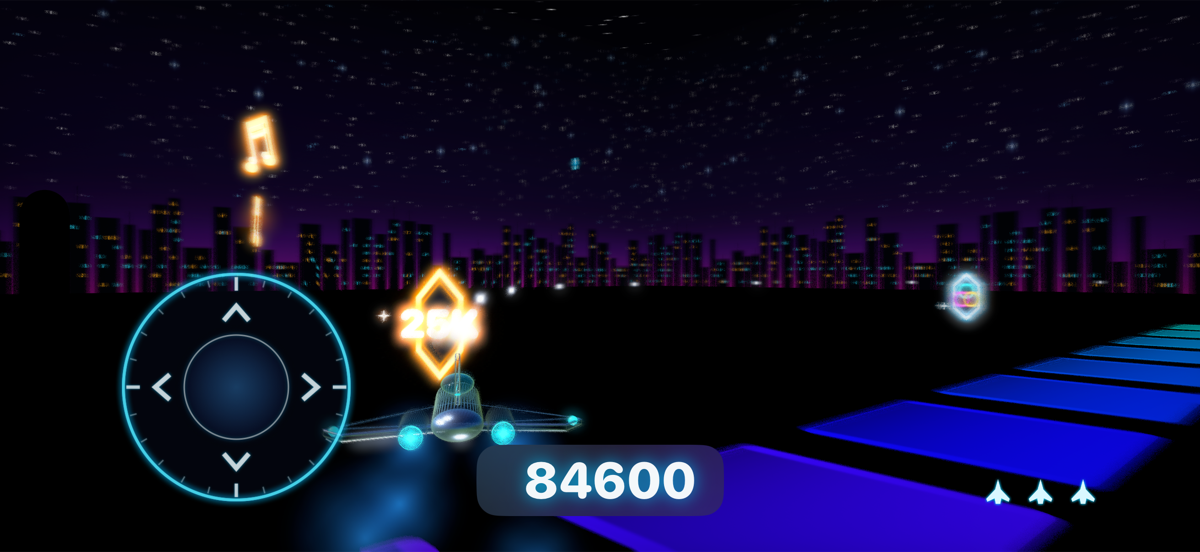
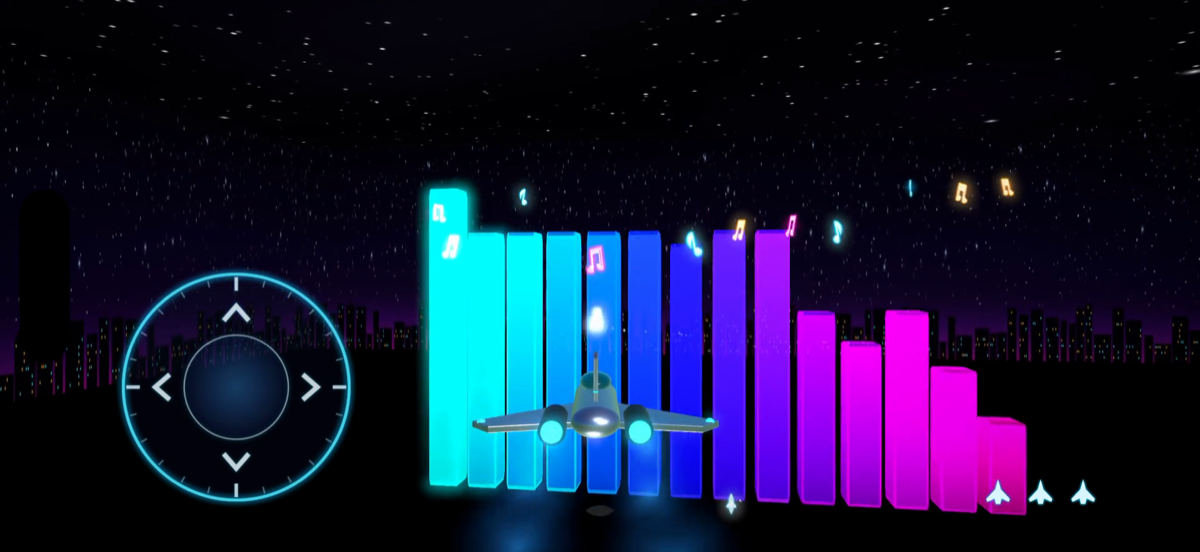
Demo autopilot flies in 3D: dogfights chords, dives for pickups
The autopilot now chases the nearest live chord through the full
altitude band, reserves a slice of every 24 s for a pickup run near the
floor, and patrols a figure-eight when the arena is quiet. Gameplay
screenshot refreshed from the new capture.

diff --git a/mevsmusic/GameRenderer.swift b/mevsmusic/GameRenderer.swift
@@ -47,6 +47,7 @@ final class GameRenderer: NSObject, SCNSceneRendererDelegate {
     // the DEMO environment variable (Xcode scheme or simctl) — never in normal use.
     private let demoMode = ProcessInfo.processInfo.environment["DEMO"] != nil
     private var demoFireTimer: Float = 0
+    private var demoClock: Float = 0
 
     // Input written from the main thread, consumed on the render thread.
     private let inputLock = NSLock()
@@ -435,27 +436,48 @@ final class GameRenderer: NSObject, SCNSceneRendererDelegate {
         bonuses.forEach { $0.update(deltaTime: deltaTime) }
     }
 
-    // Demo autopilot: chase the nearest live pickup (or cruise through the bar
-    // rack), firing bursts so captures catch bullets, explosions and bonus grabs.
+    // Demo autopilot: dogfight the chords in 3D, dive for a floor pickup every
+    // so often, and fly a lazy figure-eight tour when the arena is quiet.
     private func demoSteer(_ deltaTime: Float) {
-        var target = simd_float3(0, -95, -20)
-        var bestDistance = Float.greatestFiniteMagnitude
+        demoClock += deltaTime
+        let shipPosition = ship.node.simdPosition
+
+        func nearest(_ candidates: [simd_float3]) -> simd_float3? {
+            candidates.min { simd_length($0 - shipPosition) < simd_length($1 - shipPosition) }
+        }
+        var bonusTargets: [simd_float3] = []
         for bonus in bonuses {
             for i in bonus.nodes.indices where bonus.isAlive[i] {
-                let distance = simd_length(bonus.positions[i] - ship.node.simdPosition)
-                if distance < bestDistance {
-                    bestDistance = distance
-                    target = bonus.positions[i]
-                }
+                bonusTargets.append(bonus.positions[i])
             }
         }
-        let to = target - ship.node.simdPosition
+        var chordTargets: [simd_float3] = []
+        for chords in chordGroups {
+            for i in chords.nodes.indices where chords.states[i] == .alive && chords.isAlive[i] {
+                chordTargets.append(chords.positions[i])
+            }
+        }
+
+        // Ten seconds of every twenty-four are reserved for pickup runs.
+        let wantsBonus = demoClock.truncatingRemainder(dividingBy: 24) >= 14
+        let target: simd_float3
+        if wantsBonus, let bonus = nearest(bonusTargets) {
+            target = bonus
+        } else if let chord = nearest(chordTargets) {
+            target = chord
+        } else if let bonus = nearest(bonusTargets) {
+            target = bonus
+        } else {
+            let angle = demoClock * 0.3
+            target = simd_float3(sinf(angle) * 55, -64 + sinf(angle * 1.6) * 16, cosf(angle * 0.5) * 55)
+        }
+        let to = target - shipPosition
         // Forward is (-sin(yaw), 0, -cos(yaw)); aim it along `to`.
         let desiredYaw = atan2(-to.x, -to.z)
         let yawError = atan2(sinf(desiredYaw - ship.node.eulerAngles.y),
                              cosf(desiredYaw - ship.node.eulerAngles.y))
-        ship.velocity.x = min(max(-yawError * 57.3 * 0.08, -1.6), 1.6)   // yawDegrees -= velocity.x
-        ship.velocity.y = min(max(-to.y * 0.08, -0.45), 0.45)            // dy/dt = -15 * velocity.y
+        ship.velocity.x = min(max(-yawError * 57.3 * 0.09, -2), 2)   // yawDegrees -= velocity.x
+        ship.velocity.y = min(max(-to.y * 0.1, -0.6), 0.6)           // dy/dt = -15 * velocity.y
 
         demoFireTimer -= deltaTime
         if demoFireTimer <= 0 {